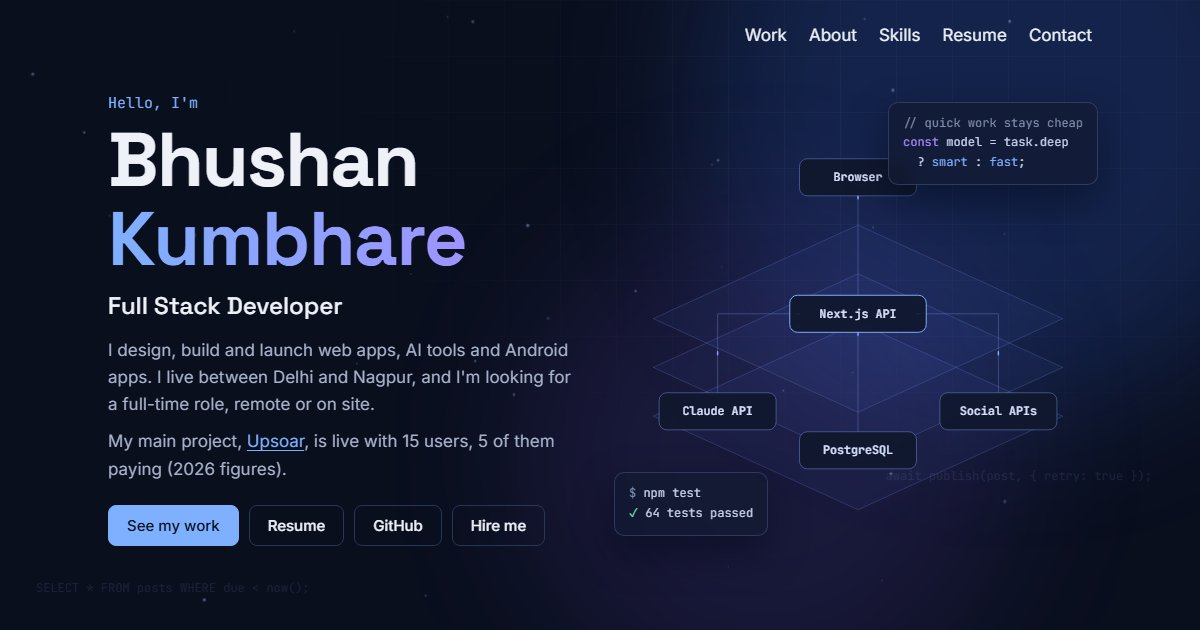
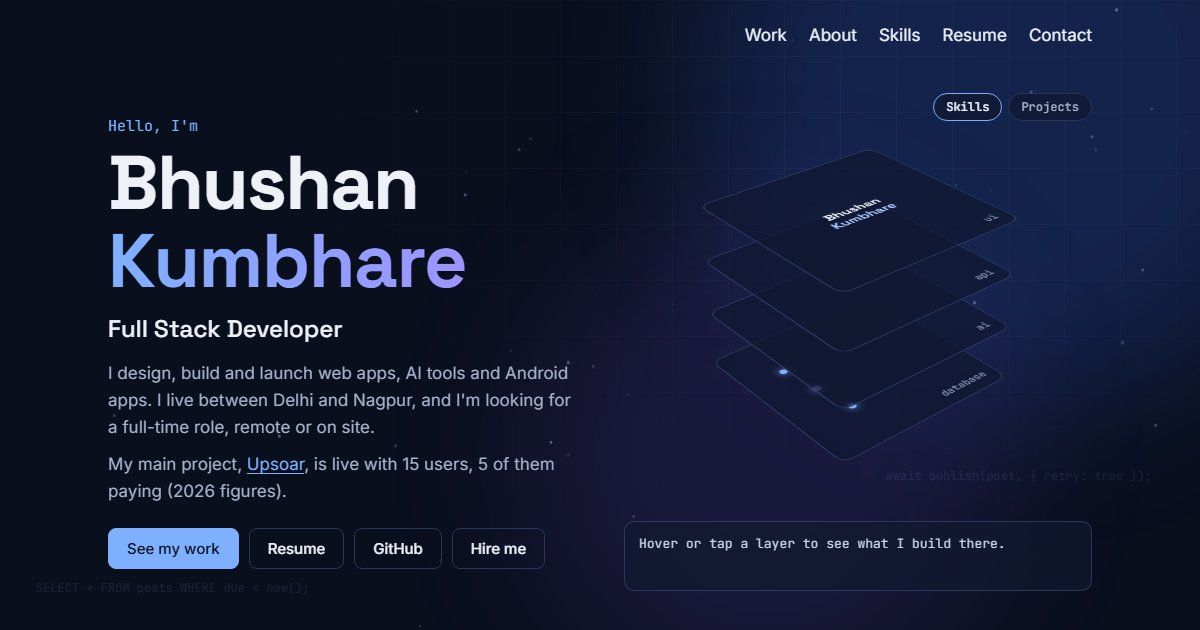
Replace the hero system map with an interactive 3D stack
Four layers (ui, api, ai, database) that spread apart on load, sway when idle,
tilt toward the pointer and lift on hover, with data dots moving up through
them. A switch shows the projects instead, and clicking a project twice
scrolls to its card. Still for reduced motion.

diff --git a/background.js b/background.js
@@ -1,4 +1,4 @@
-/* Slow particles behind the page, and a slight parallax on the hero visual. */
+/* Slow particles behind the page, and the 3D stack in the hero. */
 (function background() {
   const still = matchMedia('(prefers-reduced-motion: reduce)').matches;
   const canvas = document.getElementById('bg-particles');
@@ -47,11 +47,137 @@
   size();
   if (still) draw(); else requestAnimationFrame(tick);
 
-  const visual = document.querySelector('.hero-visual');
-  if (visual && !still && matchMedia('(pointer: fine)').matches) {
-    addEventListener('pointermove', e => {
-      visual.style.setProperty('--px', (e.clientX / innerWidth - .5).toFixed(3));
-      visual.style.setProperty('--py', (e.clientY / innerHeight - .5).toFixed(3));
-    }, { passive: true });
-  }
+  stack(still);
 })();
+
+/* The hero stack: four layers you can lift. Skills mode shows what I build at each layer,
+   projects mode shows the products, linked to their cards below. */
+function stack(still) {
+  const visual = document.querySelector('.hero-visual');
+  if (!visual) return;
+  const rig = visual.querySelector('.stack-rig');
+  const info = visual.querySelector('.stack-info');
+  const byId = id => PROJECTS.find(p => p.id === id);
+
+  /* Bottom layer first. */
+  const MODES = {
+    skills: {
+      hint: 'Hover or tap a layer to see what I build there.',
+      layers: [
+        { label: 'database', text: '<b>database</b> · PostgreSQL, Drizzle ORM, SQLite, Firebase' },
+        { label: 'ai', text: '<b>ai</b> · Claude API, agents with tools, prompt caching, model routing' },
+        { label: 'api', text: '<b>api</b> · Node.js, Next.js routes, REST, OAuth, Razorpay and Stripe' },
+        { label: 'ui', text: '<b>ui</b> · React, Next.js, TypeScript, React Native', top: true }
+      ]
+    },
+    projects: {
+      hint: 'Hover or tap a project. Click it again to jump to it.',
+      layers: ['naad', 'distributor', 'tradewire', 'upsoar'].map((id, i) => {
+        const p = byId(id);
+        return { label: p.name.toLowerCase(), color: p.accent, id, top: i === 3,
+          text: '<b>' + p.name + '</b> · ' + p.kind + '. ' + p.status + '.' };
+      })
+    }
+  };
+
+  let mode = 'skills', plates = [], active = -1;
+
+  function build() {
+    rig.innerHTML = '';
+    plates = MODES[mode].layers.map((l, i) => {
+      const b = document.createElement('button');
+      b.type = 'button';
+      b.className = 'plate';
+      b.style.setProperty('--i', i);
+      if (l.color) { b.style.setProperty('--c', l.color); b.style.color = l.color; }
+      b.setAttribute('aria-label', l.label);
+      b.textContent = l.label;
+      if (l.top) {
+        const m = document.createElement('span');
+        m.className = 'mark';
+        m.innerHTML = '<span>Bhushan<br><i>Kumbhare</i></span>';
+        b.append(m);
+      }
+      b.addEventListener('mouseenter', () => pick(i));
+      b.addEventListener('focus', () => pick(i));
+      b.addEventListener('click', () => {
+        if (l.id && active === i) document.getElementById(l.id).scrollIntoView({ behavior: still ? 'auto' : 'smooth' });
+        pick(i);
+      });
+      rig.append(b);
+      return b;
+    });
+    [0, 1, 2].forEach(k => {
+      const d = document.createElement('span');
+      d.className = 'packet' + (k === 1 ? ' alt' : '');
+      d.style.left = -64 + k * 8 + 'px';
+      d.style.top = (k - 1) * 44 - 4 + 'px';
+      d.style.animationDelay = -k * 0.8 + 's';
+      rig.append(d);
+    });
+    active = -1;
+    info.style.removeProperty('--c');
+    info.textContent = MODES[mode].hint;
+  }
+
+  function pick(i) {
+    active = i;
+    const l = MODES[mode].layers[i];
+    plates.forEach((p, k) => {
+      p.classList.toggle('on', k === i);
+      p.style.setProperty('--lift', k === i ? '22px' : '0px');
+    });
+    if (l.color) info.style.setProperty('--c', l.color); else info.style.removeProperty('--c');
+    info.innerHTML = l.text;
+  }
+
+  function reset() {
+    active = -1;
+    plates.forEach(p => { p.classList.remove('on'); p.style.setProperty('--lift', '0px'); });
+    info.style.removeProperty('--c');
+    info.textContent = MODES[mode].hint;
+  }
+
+  visual.querySelectorAll('.stack-mode').forEach(btn => btn.addEventListener('click', () => {
+    mode = btn.dataset.mode;
+    visual.querySelectorAll('.stack-mode').forEach(b => b.setAttribute('aria-pressed', b === btn));
+    build();
+    open();
+  }));
+  visual.querySelector('.stack-scene').addEventListener('mouseleave', reset);
+
+  /* The layers start pressed together and spread apart, like an exploded diagram. */
+  function open() {
+    if (still) return;
+    visual.style.setProperty('--gap', '6px');
+    requestAnimationFrame(() => requestAnimationFrame(() => visual.style.removeProperty('--gap')));
+  }
+
+  build();
+  open();
+  if (still) return;
+
+  /* When idle the stack sways slowly; when the mouse is over it, it tilts toward the pointer. */
+  const fine = matchMedia('(pointer: fine)').matches;
+  let rz = -40, rx = 58, tz = -40, tx = 58, over = false, last = 0;
+  if (fine) {
+    visual.addEventListener('pointermove', e => {
+      const r = visual.getBoundingClientRect();
+      over = true;
+      tz = -40 + ((e.clientX - r.left) / r.width - .5) * 36;
+      tx = 58 - ((e.clientY - r.top) / r.height - .5) * 14;
+    });
+    visual.addEventListener('pointerleave', () => { over = false; });
+  }
+  function frame(t) {
+    requestAnimationFrame(frame);
+    if (document.hidden || t - last < 33) return;
+    last = t;
+    if (!over) { tz = -40 + Math.sin(t / 3200) * 14; tx = 58; }
+    rz += (tz - rz) * .08;
+    rx += (tx - rx) * .08;
+    rig.style.setProperty('--rz', rz.toFixed(2) + 'deg');
+    rig.style.setProperty('--rx', rx.toFixed(2) + 'deg');
+  }
+  requestAnimationFrame(frame);
+}

diff --git a/background.css b/background.css
@@ -28,46 +28,65 @@
 @keyframes glow-a { to { transform: translate(-7vw, 6vh) scale(1.1); } }
 @keyframes glow-b { to { transform: translate(8vw, -7vh) scale(.92); } }
 
-/* Hero visual: the system behind Upsoar, drawn as a small architecture map. */
-.hero-visual { position: relative; min-width: 0; --px: 0; --py: 0; }
-.sys { display: block; width: 100%; height: auto; overflow: visible; transform: translate(calc(var(--px) * -5px), calc(var(--py) * -5px)); transition: transform .5s ease-out; }
-.sys-plate { fill: rgba(92, 130, 255, .05); stroke: rgba(130, 160, 255, .22); stroke-width: 1; }
-.sys-line { fill: none; stroke: rgba(140, 170, 255, .3); stroke-width: 1; }
-.sys-flow { fill: none; stroke: #7fb0ff; stroke-width: 1.5; stroke-linecap: round; stroke-dasharray: 3 120; }
-.sys-flow.alt { stroke: #a78bff; }
-.sys-node rect { fill: rgba(16, 24, 46, .92); stroke: rgba(140, 170, 255, .4); stroke-width: 1; }
-.sys-node.main rect { stroke: #7fb0ff; }
-.sys-node text { font: 500 12px var(--mono); fill: #dbe4ff; text-anchor: middle; dominant-baseline: central; }
+/* Hero visual: the stack I build, as 3D layers. Hover a layer to lift it; switch to see projects instead of skills. */
+.hero-visual { position: relative; min-width: 0; --gap: 58px; --plate: 210px; }
 
-.glass {
-  position: absolute; margin: 0; padding: 11px 14px;
-  background: rgba(17, 25, 48, .68);
-  border: 1px solid rgba(160, 185, 255, .2); border-radius: 10px;
-  -webkit-backdrop-filter: blur(9px); backdrop-filter: blur(9px);
-  box-shadow: 0 16px 40px rgba(3, 6, 18, .45);
-  font: 12px/1.65 var(--mono); color: #c9d4ee; white-space: pre;
-  transition: transform .5s ease-out;
+.stack-modes { position: relative; z-index: 2; display: flex; justify-content: flex-end; gap: 6px; }
+.stack-mode {
+  padding: 5px 12px; border: 1px solid var(--rule); border-radius: 999px; background: rgba(15, 23, 48, .7);
+  font: 500 12px var(--mono); color: var(--soft); cursor: pointer;
 }
-.glass.code { top: -8px; right: -6px; transform: translate(calc(var(--px) * 9px), calc(var(--py) * 9px)); }
-.glass.term { bottom: -6px; left: -10px; transform: translate(calc(var(--px) * 13px), calc(var(--py) * 13px)); }
-.glass .k { color: #a78bff; } .glass .f { color: #7fb0ff; } .glass .ok { color: #6ee7b7; } .glass .d { color: #8291b0; }
+.stack-mode[aria-pressed="true"] { border-color: #7fb0ff; color: #eef1f8; }
+.stack-mode:focus-visible, .plate:focus-visible { outline: 2px solid #7fb0ff; outline-offset: 3px; }
+
+.stack-scene { position: relative; height: 400px; perspective: 1100px; }
+.stack-rig {
+  position: absolute; left: 50%; top: 62%; width: 0; height: 0; transform-style: preserve-3d;
+  transform: rotateX(var(--rx, 58deg)) rotateZ(var(--rz, -40deg));
+}
+.plate {
+  position: absolute; left: calc(var(--plate) / -2); top: calc(var(--plate) / -2); width: var(--plate); height: var(--plate);
+  display: flex; align-items: flex-end; justify-content: flex-end; padding: 10px 12px;
+  background: rgba(15, 23, 48, .74); border: 1px solid #34436f; border-radius: 12px;
+  font: 500 12px var(--mono); color: #8a98ba; cursor: pointer;
+  transform: translateZ(calc(var(--i) * var(--gap) + var(--lift, 0px)));
+  transition: transform .6s cubic-bezier(.2, .7, .1, 1), border-color .3s, background .3s, color .3s;
+}
+.plate.on { background: #16224a; border-color: var(--c, #7fb0ff); color: #eef1f8; }
+.plate .mark { position: absolute; inset: 0; display: grid; place-items: center; font: 700 15px/1.15 var(--display); color: #eef1f8; text-align: center; pointer-events: none; }
+.plate .mark i { font-style: normal; color: #a9c4ff; }
+.packet {
+  position: absolute; left: -4px; top: -4px; width: 8px; height: 8px; border-radius: 50%; background: #7fb0ff;
+  box-shadow: 0 0 10px #7fb0ff; pointer-events: none;
+}
+.packet.alt { background: #a78bff; box-shadow: 0 0 10px #a78bff; }
+
+.stack-info {
+  min-height: 70px; margin: 0; padding: 12px 14px;
+  background: rgba(17, 25, 48, .68); border: 1px solid rgba(160, 185, 255, .2); border-radius: 10px;
+  -webkit-backdrop-filter: blur(9px); backdrop-filter: blur(9px);
+  font: 13px/1.6 var(--mono); color: #c9d4ee;
+}
+.stack-info b { font-weight: 500; color: var(--c, #a78bff); }
+.stack-info a { color: var(--link); }
 
 @media (prefers-reduced-motion: no-preference) {
-  .sys-flow { animation: sys-flow 5s linear infinite; }
-  .sys-flow.alt { animation-duration: 7s; animation-delay: -2s; }
+  .packet { animation: packet 2.4s linear infinite; }
 }
-@keyframes sys-flow { from { stroke-dashoffset: 123; } to { stroke-dashoffset: 0; } }
+@keyframes packet { from { transform: translateZ(0); opacity: 0; } 12% { opacity: 1; } 88% { opacity: 1; } to { transform: translateZ(calc(var(--gap) * 3)); opacity: 0; } }
 
 /* Below laptop width the two columns are too tight, so the visual moves under the text. */
 @media (max-width: 980px) {
   .hero { grid-template-columns: minmax(0, 1fr); gap: 40px; }
   .hero-visual { width: 100%; max-width: 480px; margin: 0 auto; }
+  .stack-scene { height: 360px; }
 }
 
 @media (max-width: 760px) {
   .top nav { gap: 4px 14px; font-size: 15px; justify-content: flex-start; }
-  .bg-code, .glass.code { display: none; }
+  .bg-code { display: none; }
+  .hero-visual { --gap: 44px; --plate: 170px; }
+  .stack-scene { height: 300px; }
   .bg-glow.blue { width: 110vw; height: 110vw; top: -60vw; right: -50vw; }
   .bg-glow.violet { width: 80vw; height: 80vw; top: 60vh; right: -30vw; }
-  .glass.term { left: 0; bottom: -14px; }
 }

diff --git a/index.html b/index.html
@@ -56,32 +56,15 @@
           <a class="btn" href="#contact">Hire me</a>
         </div>
       </div>
-      <div class="hero-visual" aria-hidden="true">
-        <svg class="sys" viewBox="0 0 480 430">
-          <path class="sys-plate" d="M240 118 450 214 240 310 30 214Z"/>
-          <path class="sys-plate" d="M240 168 450 264 240 360 30 264Z"/>
-          <path class="sys-plate" d="M240 218 450 314 240 410 30 314Z"/>
-          <g>
-            <path class="sys-line" d="M240 88V190"/>
-            <path class="sys-line" d="M180 209H96V290"/>
-            <path class="sys-line" d="M300 209H384V290"/>
-            <path class="sys-line" d="M240 228V330"/>
-            <path class="sys-flow" d="M240 88V190"/>
-            <path class="sys-flow alt" d="M180 209H96V290"/>
-            <path class="sys-flow" d="M300 209H384V290"/>
-            <path class="sys-flow alt" d="M240 228V330"/>
-          </g>
-          <g class="sys-node "><rect x="180" y="50" width="120" height="38" rx="8"/><text x="240" y="69">Browser</text></g>
-          <g class="sys-node main"><rect x="170" y="190" width="140" height="38" rx="8"/><text x="240" y="209">Next.js API</text></g>
-          <g class="sys-node "><rect x="36" y="290" width="120" height="38" rx="8"/><text x="96" y="309">Claude API</text></g>
-          <g class="sys-node "><rect x="324" y="290" width="120" height="38" rx="8"/><text x="384" y="309">Social APIs</text></g>
-          <g class="sys-node "><rect x="180" y="330" width="120" height="38" rx="8"/><text x="240" y="349">PostgreSQL</text></g>
-        </svg>
-        <pre class="glass code"><span class="d">// quick work stays cheap</span>
-<span class="k">const</span> model = task.deep
-  ? <span class="f">smart</span> : <span class="f">fast</span>;</pre>
-        <pre class="glass term"><span class="d">$</span> npm test
-<span class="ok">✓</span> 64 tests passed</pre>
+      <div class="hero-visual">
+        <div class="stack-modes" role="group" aria-label="What the stack shows">
+          <button type="button" class="stack-mode" data-mode="skills" aria-pressed="true">Skills</button>
+          <button type="button" class="stack-mode" data-mode="projects" aria-pressed="false">Projects</button>
+        </div>
+        <div class="stack-scene">
+          <div class="stack-rig"></div>
+        </div>
+        <p class="stack-info" aria-live="polite"></p>
       </div>
     </section>
 

diff --git a/style.css b/style.css
@@ -48,7 +48,7 @@ a:hover { color: var(--ink); }
 .intro + .intro { margin-top: 10px; }
 .intro a { color: var(--link); }
 
-/* The text comes up first, then the system map fades in beside it. */
+/* The text comes up first, then the stack fades in beside it. */
 @media (prefers-reduced-motion: no-preference) {
   .hero-text > *, .hero-visual { animation: hero-in .7s cubic-bezier(.2, .7, .1, 1) both; }
   .hero-text > :nth-child(2) { animation-delay: .08s; }
